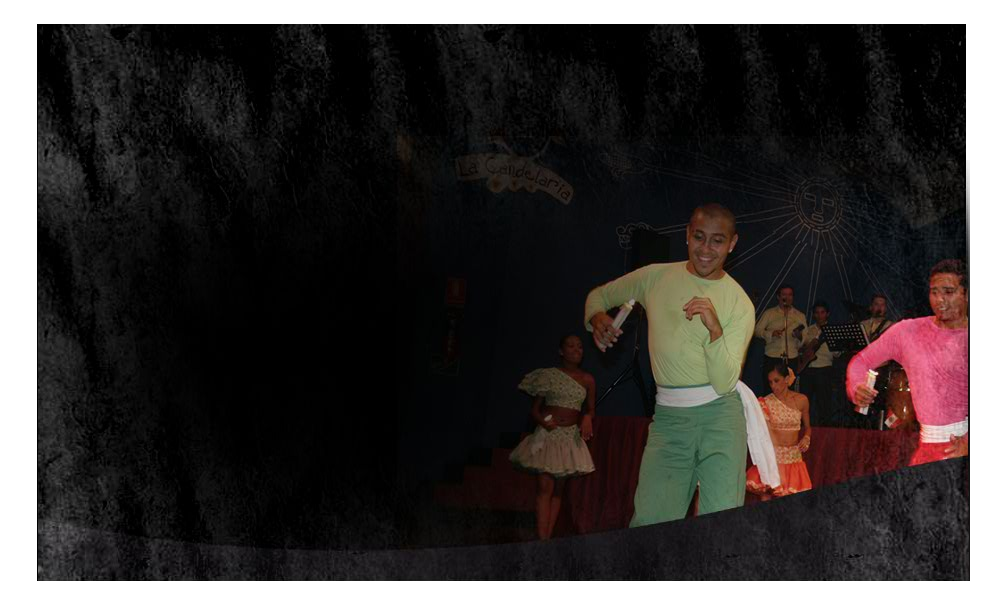
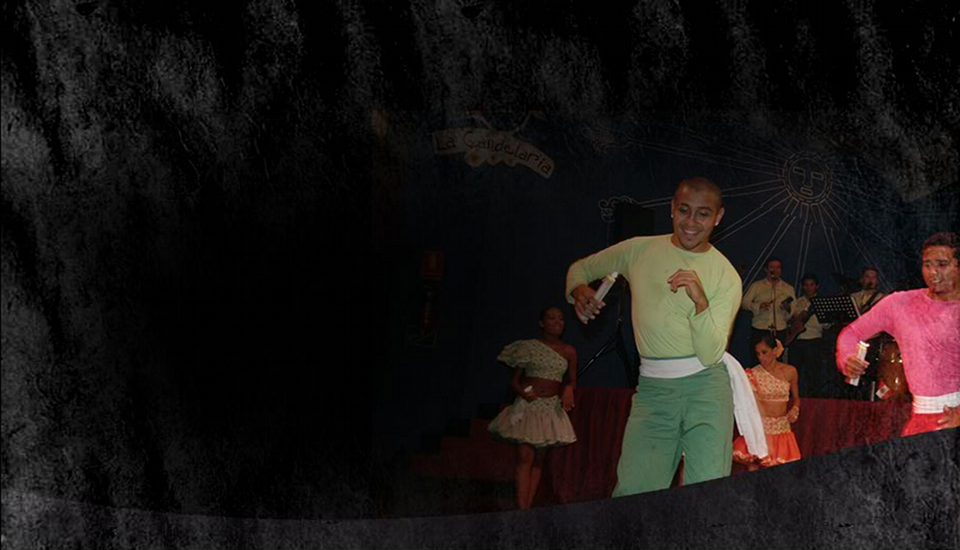
agregado festejo.html

Changed region(s): [[0.0, 0.0, 1.0, 1.0], [0.4688, 0.2164, 0.5938, 0.34]]

diff --git a/css/stylefestejo.css b/css/stylefestejo.css
@@ -1,0 +1,154 @@
+@font-face {
+    font-family: 'Ringbearer';
+    src: url('font/ringm__0-webfont.eot?#iefix') format('embedded-opentype'), 
+	     url('font/ringm__0-webfont.woff') format('woff'), 
+	     url('font/ringm__0-webfont.ttf')  format('truetype'),
+	     url('font/ringm__0-webfont.svg#svgFontName') format('svg');
+}
+
+html { 
+    min-height: 100%;
+}
+
+body { 
+    color: #F8F8F8;
+    text-align: center; /* manya, con esto se centra el bloque body */
+    background-image: -moz-linear-gradient(top, #772A0B, #000000);
+    background-image: -webkit-gradient(linear, left top, left bottom, from(#772A0B), to(#000000));
+    background-image: -webkit-linear-gradient(top, #772A0B, #000000);
+    filter: progid:DXImageTransform.Microsoft.Gradient(StartColorStr='#772A0B', EndColorStr='#000000', GradientType=0)		
+}
+
+#main { 
+    width: 960px;
+    height: 550px;
+    border-style: solid;
+    border-color: #99360F;
+    border-width:20px;
+/*    position: relative*/
+    margin-left: auto;
+    margin-right: auto;
+    z-index: 0;
+    padding: 0;
+    background-image: url('clasesfestejo.png');
+}
+
+h1 { /* Titulo interior del bloque*/
+    font-size: 30px;
+    font-family: Ringbearer;
+    text-align: left;
+    color: #c08e05;
+    padding: 10px;
+    padding-bottom: 0px;
+    margin: 10px 0 0 0;
+/*    background-color: #0FF;*/
+}
+
+h4 { /* subtitulo interior del bloque*/
+    font-size: 16px;
+    text-align: left;
+    color: #F8F8F8;
+/*    background-color: #F0F;*/
+}
+
+#header { 
+/*    background-color: #FF0;*/
+    height: 50px
+    position: relative;
+    float: left;
+    margin-top: 130px;
+    margin-left: 220px;
+}
+
+#contenido {
+/*    position: relative;*/
+/*    background-color: red;*/
+    font-size: 14px;
+    float: left;
+    text-align: left;
+    bottom: 0;
+    padding: 20px;
+    padding-top: 0px;
+    margin: 10px;
+    margin-right:480px;
+    width: 450px;
+/*    height: 300;*/
+    z-index: 1;
+}
+
+#botones {
+    width: 700px;
+}
+
+#botones li {
+    display: inline;
+}
+
+#botones a {
+    background-color: #F8F8F8;
+    color: #000;
+    text-decoration: none;
+    padding: 4px;
+    margin: 10px;
+	-moz-border-radius: 6px;
+	-webkit-border-radius: 6px;
+	border-radius: 6px;
+}
+
+#texto {
+    height: 220px;
+    overflow-y: auto;
+    overflow-x: hidden;
+}
+
+#enlaces {
+    font-family: Ringbearer;
+/*    background-color: red;*/
+    position: relative;
+/*    float: left;*/
+    width: 960px;
+/*    height: 20px;*/
+    margin-left : auto;
+    margin-right: auto;
+    bottom: 10px;
+    z-index: 2;
+    overflow: hidden;
+    
+}
+
+#enlaces ul {
+    position: relative;
+    text-align: left;
+    font-size: 13px;
+    width: 960px;
+    padding: 8px;
+    margin-top: 30px;
+    height: 20px;
+}
+
+#enlaces li {
+    width: auto;
+    padding: 2px 10px;
+    color: #F8F8F8;
+    margin: 2px;
+    display: inline;
+    list-style: none;
+
+}
+
+#enlaces a {
+	margin: auto;
+	text-decoration: none;
+    color: #F8F8F8;
+
+}
+
+#enlaces #relleno {
+    background-color: transparent;
+    padding: 0 30px;
+    
+}
+
+#imagen {
+    margin: 10 25px;
+}

diff --git a/festejo.html b/festejo.html
@@ -1,0 +1,56 @@
+<html>
+<head>
+<meta http-equiv="Content-Type" content="text/html; charset=utf-8">
+<link rel="stylesheet" type="text/css" href="./css/stylefestejo.css">
+<title>La Candelaria</title>
+</head>
+
+<body>
+
+
+<div id="main"> <!--bloque que tiene a la imagen como fondo-->
+
+
+    <div id="header">
+        <h1>Espectáculo
+        </h1>
+<!-- aca no hay subtitulo        <h4>Todo el encanto del folclor peruano en un solo espectáculo</h4>-->
+    </div>
+
+    <div id="contenido">
+        <div id="botones">
+            <ul>
+                <li><a href="danzas.html">Nuestras danzas</a></li>
+                <li><a href="visitantes.html">Visitantes y turistas</a></li>
+                <li><a href="cumpleanos.html">Cumpleaños</a></li>
+                <li><a href="#">Clases de Festejo</a></li>
+            </ul>
+        </div>
+        
+        <div id="texto">
+            <p>Muchos de quienes visitaron La Candelaria aprendieron aquí a bailar Festejo. Y es que nuestro showman se encarga de dar una clase práctica del contagiante ritmo afro peruano. Trepado en el podio de la orquesta, instruye a los 'alumnos' en el escenario quienes repiten acompasadamente el movimiento y las figuras que él ejecuta y enseña. Emotiva y magistral docencia. Qué fácil había sido, dirán todos al término de la clase.</p>
+        </div>
+    </div>
+    
+
+    
+    <div id="enlaces">
+        <ul>
+            <li><a href="quienes.html" >Quienes somos</a></li>
+            <li><a href="espectaculo.html" >Espectáculo</a></li>
+            <li><a href="carta_menu.html" >Carta Menú</a></li>
+            <li><a href="carta_bar.html" >Carta Bar</a></li>
+            <li><a href="http://www.facebook.com/lacandelariaperu?sk=photos" target="_blank">Galería</a></li>
+            <li><a href="http://www.youtube.com/user/lacandelariaperu?blend=10&ob=5" target="_blank">Videos</a></li>
+            <li id="relleno">&nbsp;</li>
+            <li><a href="contactenos.html" class="pequeno">Contáctenos</a></li>
+            <li><a href="reservas.html" class="pequeno">Reservas</a></li>
+            <li><a href="programa.html" >Programa</a></li>
+        </ul>
+    </div>
+<!--    <img id="imagen" src="acc/image 11.png">-->
+     
+</div>
+
+</body>
+</html>
